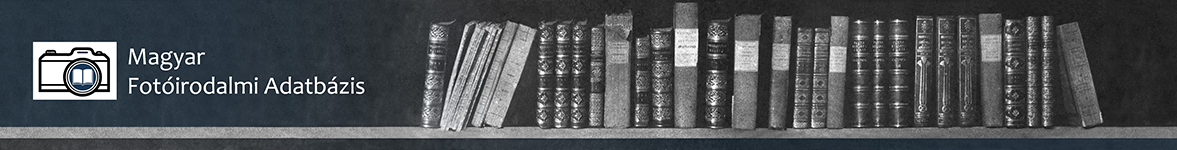
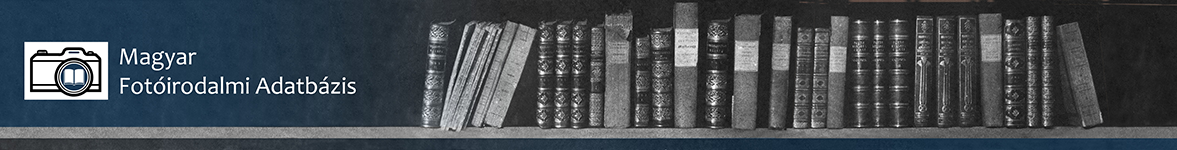
Various changes.

diff --git a/omeka-2.6/themes/bootstrap/css/style.css b/omeka-2.6/themes/bootstrap/css/style.css
@@ -715,6 +715,10 @@ h1,h2,h3,h4,h5,h6
     font-family: 'Open Sans', Verdana, Arial, sans-serif;
     letter-spacing: 1px;
 }
+h1
+{
+	font-size: 18pt;
+}
 h2
 {
 	font-size: 12pt;
@@ -734,6 +738,11 @@ h3
 	height: 60px;
 }
 
+a
+{
+	color: rgb(75, 150, 166);
+}
+
 /* Header of an element */
 .element>div>div:first-child
 {
@@ -744,4 +753,15 @@ h3
 .element
 {
 	margin-bottom: 10px;
+}
+
+a.collection-single>img
+{
+	width: 150px;
+}
+
+.img-thumbnail
+{
+	max-height: 150px;
+	max-width: 150px;
 }

diff --git a/omeka-2.6/themes/bootstrap/items/search-form.php b/omeka-2.6/themes/bootstrap/items/search-form.php
@@ -63,6 +63,18 @@ $formAttributes['class'] = 'form-horizontal';
                         )
                     );
                 }
+
+				//FIX KA 20180603: Defining fixed fields.
+				$fixedFieldList = array(
+					39 => __('Szerző'),
+					50 => __('Title'),
+					45 => __('Kiadó'),
+					40 => __('Megjelenés éve'),
+					60 => __('Fotós vagy író kapcsán'),
+					59 => __('Fotó jellege'),
+					54 => __('Fotózta')
+				);
+
                 echo $this->formSelect(
                     "advanced[$i][element_id]",
                     @$rows['element_id'],
@@ -71,10 +83,12 @@ $formAttributes['class'] = 'form-horizontal';
                         'id' => null,
                         'class' => 'advanced-search-element inline',
                     ),
-                    get_table_options('Element', null, array(
-                        'record_types' => array('Item', 'All'),
-                        'sort' => 'orderBySet')
-                    )
+					//FIX KA 20180603: Using fixed fields here
+					label_table_options($fixedFieldList)
+                    //get_table_options('Element', null, array(
+                    //    'record_types' => array('Item', 'All'),
+                    //    'sort' => 'orderBySet')
+                    //)
                 );
                 // btn btn-default dropdown-toggle
                 // <span class="caret"></span></button>
@@ -120,6 +134,7 @@ $formAttributes['class'] = 'form-horizontal';
         <button type="button" class="add_search btn btn-success pull-right" title="<?php echo __('Add a Field'); ?>"><span class="glyphicon glyphicon-plus"></span> <?php echo __('Add a Field'); ?></button>
     </div>
 
+    <!-- FIX KA 20180603: removed this
     <div id="search-by-range" class="field form-group">
         <?php echo $this->formLabel('range', __('Search by a range of ID#s (example: 1-4, 156, 79)')); ?>
         <div class="col-sm-10">
@@ -130,6 +145,7 @@ $formAttributes['class'] = 'form-horizontal';
         </div>
         </div>
     </div>
+    -->
 
     <div class="field form-group">
         <?php echo $this->formLabel('collection-search', __('Search By Collection')); ?>
@@ -146,6 +162,20 @@ $formAttributes['class'] = 'form-horizontal';
         </div>
         </div>
     </div>
+	
+	<?php
+	
+		//FIX KA 20180605: Using fixed list here.
+		$fixedTypeList = array(
+			18 => __('Könyv'),
+			19 => __('Cikk'),
+			20 => __('Újság'),
+			7 => __('Honlap'),
+			21 => __('Doktori disszertáció'),
+			1 => __('Szöveg')
+		);
+		
+	?>
 
     <div class="field form-group">
         <?php echo $this->formLabel('item-type-search', __('Search By Type')); ?>
@@ -156,7 +186,9 @@ $formAttributes['class'] = 'form-horizontal';
                 'type',
                 @$_REQUEST['type'],
                 array('id' => 'item-type-search'),
-                get_table_options('ItemType')
+				//FIX KA 20180603: Using fixed fields here
+				label_table_options($fixedTypeList)
+                //get_table_options('ItemType')
             );
         ?>
         </div>

diff --git a/omeka-2.6/themes/bootstrap/custom.php b/omeka-2.6/themes/bootstrap/custom.php
@@ -433,7 +433,7 @@ function saved_record_image($folder, $item)
 	
 	if (file_exists(getcwd() . '/themes/bootstrap/images/' . $filename))
 	{
-		return '<img src="' . img($filename) . '" class="img-rounded img-responsive img-thumbnail" />';
+		return '<img src="' . img($filename) . '" class="img-responsive" />';
 	}
 	else
 	{
@@ -470,6 +470,13 @@ function moly_cover($item, $showGlyphIcon)
   				$moly_img_url = $obj->cover;
 			}
 		}
+		else
+		{
+			if ($moly_borito = metadata($item, array('Item Type Metadata', 'borító jpg link')))
+			{
+				$moly_img_url = $moly_borito;	
+			}
+		}
 	}	
 
 
@@ -499,9 +506,6 @@ function moly_cover($item, $showGlyphIcon)
  * tags from, or the actual array of tags
  * @param string|null $link The URI to use in the link for each tag. If none
  * given, tags in the cloud will not be given links.
- * @param int $maxClasses
- * @param bool $tagNumber
- * @param string $tagNumberOrder
  * @return string HTML for the tag cloud
  */
 function tag_cloud_bootstrap($recordOrTags, $link = null)
@@ -520,14 +524,31 @@ function tag_cloud_bootstrap($recordOrTags, $link = null)
         return '<p>' . __('No tags are available.') . '</p>';
     }
 
-    $html = '<br/><br/><div class="row">';
+    //Get the largest value in the tags array
+    $maxClasses = count($tags);
+    $largest = 0;
+    foreach ($tags as $tag) {
+        if ($tag["tagCount"] > $largest) {
+            $largest = $tag['tagCount'];
+        }
+    }
+
+    if ($largest < $maxClasses) {
+        $maxClasses = $largest;
+    }
+
+    $html = '<br/><br/><div class="row"><div class="col-sm-4">';
+
+    //--- Calculate number of tags in a column
+    $maxNumTags = count($tags) / 3;
+    $numTags = 0;
 
     foreach ($tags as $tag) 
     {
-        //$size = (int) (($tag['tagCount'] * $maxClasses) / $largest - 1);
-        //$class = str_repeat('v', $size) . ($size ? '-' : '') . 'popular';
+        $size = (int) (($tag['tagCount'] * $maxClasses) / $largest - 1);
+        $class = str_repeat('v', $size) . ($size ? '-' : '') . 'popular';
 
-	$html .= '<div class="col-sm-4">';
+	$html .= '<span class="' . $class . '">';
         if ($link) {
             $html .= '<a href="' . html_escape(url($link, array('tags' => $tag['name']))) . '">';
         }
@@ -535,11 +556,17 @@ function tag_cloud_bootstrap($recordOrTags, $link = null)
         if ($link) {
             $html .= '</a>';
         }
-        $html .= '</div>' . "\n";
+        $html .= '</span><br/>' . "\n";
 
+	$numTags++;
+	if ($numTags >= $maxNumTags)
+	{
+	 	$numTags = 0;
+		$html .= '</div><div class="col-sm-4">';
+	}
     }
 
-    $html .= '</div>';
+    $html .= '</div></div>';
 
     return $html;
 

diff --git a/omeka-2.6/themes/bootstrap/collections/show.php b/omeka-2.6/themes/bootstrap/collections/show.php
@@ -9,7 +9,9 @@
     <div id="collection-title" class="row page-header">
         <div class="col-xs-12">
             <h1><?php echo metadata('collection', array('Dublin Core', 'Title')); ?><br />
-                <small><?php echo __('%d items in collection', $collection->totalItems()); ?></small>
+                <small><?php 
+                        //FIX KA 20180626 this translation won't work because of the placeholder...
+			echo __('%d elem', $collection->totalItems()); ?></small>
             </h1>
         </div>
     </div>
@@ -44,7 +46,7 @@
 		//FIX KA 20180601: show moly cover
 		//if (metadata($item, 'has files')):
                     echo link_to_item(
-			moly_cover($item)
+			moly_cover($item, false)
 			//item_image('square_thumbnail', array('class' => 'img-rounded img-responsive img-thumbnail'))
 			);
                 //else:
@@ -62,7 +64,8 @@
     <div class="row">
         <div class="col-xs-12">
             <p class="view-items-link-browse lead" style="text-align:center"><?php
-                echo link_to_items_in_collection(__('Browse all items in the collection'), $collection);
+				//FIX KA2018026: no translation for this.
+                echo link_to_items_in_collection('A gyűjtemény minden elemének böngészése', $collection);
             ?></p>
         </div>
     </div>

diff --git a/omeka-2.6/themes/bootstrap/exhibits/single.php b/omeka-2.6/themes/bootstrap/exhibits/single.php
@@ -1,12 +1,16 @@
 <div class="exhibit record">
     <?php
-    $image = record_image($exhibit, 'square_thumbnail', array('class' => 'center-block img-responsive'));
-    $description = snippet_by_word_count(metadata($exhibit, 'description', array('no_escape' => true, 'snippet' => 150)));
+
+     //--- FIX KA 20180606: using saved files
+    //$image = record_image($exhibit, 'square_thumbnail', array('class' => 'center-block img-responsive'));
+    $image = saved_record_image('exhibit', $exhibit);
+ 
+   $description = snippet_by_word_count(metadata($exhibit, 'description', array('no_escape' => true, 'snippet' => 150)));
     ?>
     <h3><?php echo exhibit_builder_link_to_exhibit($exhibit); ?></h3>
     <div class="image-featured">
     <?php if ($image): ?>
-        <?php echo exhibit_builder_link_to_exhibit($exhibit, $image, array('class' => 'image')); ?>
+        <?php echo exhibit_builder_link_to_exhibit($exhibit, $image, array('class' => 'image collection-single')); ?>
     <?php else: ?>
         <?php $noFile = '<img src="' . img('no-file.png') . '" class="center-block img-responsive" alt="' . __('No file') . '" />'; ?>
         <?php echo link_to($exhibit, 'show', $noFile, array('class' => 'image none')); ?>

diff --git a/omeka-2.6/plugins/ExhibitBuilder/views/helpers/ExhibitAttachment.php b/omeka-2.6/plugins/ExhibitBuilder/views/helpers/ExhibitAttachment.php
@@ -21,8 +21,11 @@ class ExhibitBuilder_View_Helper_ExhibitAttachment extends Zend_View_Helper_Abst
     {
         $item = $attachment->getItem();
         $file = $attachment->getFile();
+
+	//FIX KA 20180626: use moly image, render if image exists
+	$image = moly_cover($item);
         
-        if ($file) {
+        if ($image) {
             if (!isset($fileOptions['imgAttributes']['alt'])) {
                 $fileOptions['imgAttributes']['alt'] = metadata($item, array('Dublin Core', 'Title'), array('no_escape' => true));
             }
@@ -31,7 +34,11 @@ class ExhibitBuilder_View_Helper_ExhibitAttachment extends Zend_View_Helper_Abst
                 $imageSize = isset($fileOptions['imageSize'])
                     ? $fileOptions['imageSize']
                     : 'square_thumbnail';
-                $image = file_image($imageSize, $fileOptions['imgAttributes'], $file);
+
+	
+		//FIX KA 20180626: use moly image
+                //$image = file_image($imageSize, $fileOptions['imgAttributes'], $file);
+
                 $html = exhibit_builder_link_to_exhibit_item($image, $linkProps, $item);
             } else {
                 if (!isset($fileOptions['linkAttributes']['href'])) {

diff --git a/omeka-2.6/themes/bootstrap/common/header.php b/omeka-2.6/themes/bootstrap/common/header.php
@@ -73,9 +73,7 @@
 	<div class="headerOverlay">
         <div class="row">
             <div id="site-title" class="col-sm-6">
-		<!-- FIX KA 20180429: No logo 
-		<?php echo link_to_home_page('<img src="themes/bootstrap/images/logo.png" alt="Magyar Fotoirodalmi Adatbazis" />'); ?>
-		-->
+		<?php echo link_to_home_page('<img src="/themes/bootstrap/images/logo.png" alt="Magyar Fotoirodalmi Adatbazis" />'); ?>
             </div>
             <div id="search-container" class="col-sm-6" role="search">
 		<div class="row">
@@ -126,7 +124,7 @@
                 if ($twitter || $facebook): ?>
                 <ul class="nav navbar-nav navbar-right">
                     <?php if ($twitter): ?>
-                    <li><a href="<?php echo $twitter; ?>" target="__blank" class="navbar-link"><span class="fa fa-lg fa-twitter"></span></a></li>
+                    <li><a href="<?php echo $twitter; ?>" target="__blank" class="navbar-link">Blog</span></a></li>
                     <?php endif; ?>
                     <?php if ($facebook): ?>
                     <li><a href="<?php echo $facebook; ?>" target="__blank" class="navbar-link"><span class="fa fa-lg fa-facebook"></span></a></li>

diff --git a/omeka-2.6/themes/bootstrap/collections/single.php b/omeka-2.6/themes/bootstrap/collections/single.php
@@ -1,13 +1,17 @@
 <div class="collection record">
     <?php
     $title = metadata($collection, 'display_title');
-    $image = record_image($collection, 'square_thumbnail', array('class' => 'center-block img-responsive'));
+
+    //--- FIX KA 20180508: using saved files
+    //$image = record_image($collection, 'square_thumbnail', array('class' => 'center-block img-responsive'));
+    $image = saved_record_image('collection', $collection);
+    
     $description = metadata($collection, array('Dublin Core', 'Description'), array('no_escape' => true, 'snippet' => 150));
     ?>
     <h3 class="ellipsis"><?php echo link_to($this->collection, 'show', $title); ?></h3>
     <div class="image-featured">
     <?php if ($image): ?>
-        <?php echo link_to($collection, 'show', $image, array('class' => 'image')); ?>
+        <?php echo link_to($collection, 'show', $image, array('class' => 'image collection-single')); ?>
     <?php else: ?>
         <?php $noFile = '<img src="' . img('no-file.png') . '" class="center-block img-responsive" alt="' . __('No file') . '" />'; ?>
         <?php echo link_to($collection, 'show', $noFile, array('class' => 'image none')); ?>

diff --git a/omeka-2.6/themes/bootstrap/common/footer.php b/omeka-2.6/themes/bootstrap/common/footer.php
@@ -7,8 +7,8 @@
                     <p><?php echo $footerText; ?></p>
                     <?php endif; ?>
 		    -->
-		    <a href="http://www.kormany.hu/hu/emberi-eroforrasok-miniszteriuma"><img class="partner" src="/fotoirodalom/themes/bootstrap/images/emmi_logo2.png" alt="Emberi Erőforrások Minisztériuma" /></a>
-		    <a href="http://fr.u-szeged.hu/"><img class="partner" src="/fotoirodalom/themes/bootstrap/images/logo_hu_2.jpg" alt="Francia Tanszék" /></a>
+		    <a href="http://www.kormany.hu/hu/emberi-eroforrasok-miniszteriuma"><img class="partner" src="/themes/bootstrap/images/emmi_logo2.png" alt="Emberi Erőforrások Minisztériuma" /></a>
+		    <a href="http://fr.u-szeged.hu/"><img class="partner" src="/themes/bootstrap/images/logo_hu_2.jpg" alt="Francia Tanszék" /></a>
 			
                 </div>
             </div>

diff --git a/omeka-2.6/themes/bootstrap/search/index.php b/omeka-2.6/themes/bootstrap/search/index.php
@@ -27,7 +27,11 @@ $searchRecordTypes = get_search_record_types();
     ?>
     <div class="row">
         <div class="col-xs-4 col-sm-3 col-md-2 col-lg-2">
-            <?php if ($recordImage = record_image($recordType, 'square_thumbnail', array('class' => 'image img-responsive'))): ?>
+            <?php if (
+                //FIX KA 20180626: using moly cover or file cover
+		$recordImage = $recordType === 'Item' ? moly_cover($record) : saved_record_image(strtolower($recordType), $record)
+		//$recordImage = record_image($recordType, 'square_thumbnail', array('class' => 'image img-responsive'))
+		): ?>
                 <?php echo link_to($record, 'show', $recordImage, array('class' => $recordTypeAttrib . '-img')); ?>
             <?php else: ?>
                 <div class="<?php echo $recordTypeAttrib; ?>-img">

diff --git a/omeka-2.6/themes/bootstrap/collections/browse.php b/omeka-2.6/themes/bootstrap/collections/browse.php
@@ -43,7 +43,7 @@ echo head(array(
     <?php foreach(loop('collections') as $collection): ?>
         <div class="col-sm-6 col-lg-4">
             <div class="row">
-                <div class="col-sm-4">
+                <div class="col-sm-6">
                     <div class="collection-img">
                         <?php
 							//--- FIX KA 20180508: using saved files
@@ -58,7 +58,7 @@ echo head(array(
                         ?>
                     </div>
                 </div>
-                <div class="col-sm-8">
+                <div class="col-sm-6">
                     <h2><?php echo link_to_collection(); ?></h2>
                     <?php if (metadata('collection',array('Dublin Core', 'Contributor'))): ?>
                     <div class="element well well-sm well-md well-lg">

diff --git a/omeka-2.6/themes/bootstrap/items/show.php b/omeka-2.6/themes/bootstrap/items/show.php
@@ -18,11 +18,20 @@ echo head(array(
             </nav>
         </div>
     </div>
+    <div class="row">
+        <div class="col-md-9">
+
     <div class="row page-header">
-        <div class="col-xs-12">
-            <h1><?php echo moly_cover($item, true); ?> <?php echo $pageTitle; ?></h1>
+        <div class="col-xs-3">
+            <h1><?php echo moly_cover($item, true); ?></h1>
+        </div>
+        <div class="col-xs-9">
+            <h1><?php echo $pageTitle; ?></h1>
         </div>
     </div>
+	</div>
+	</div>
+
 <?php if ($selectedMetadata = get_theme_option('Display Preselected Metadata')):
     echo common('show-selected-metadata', array('item' => $item));
 else:
